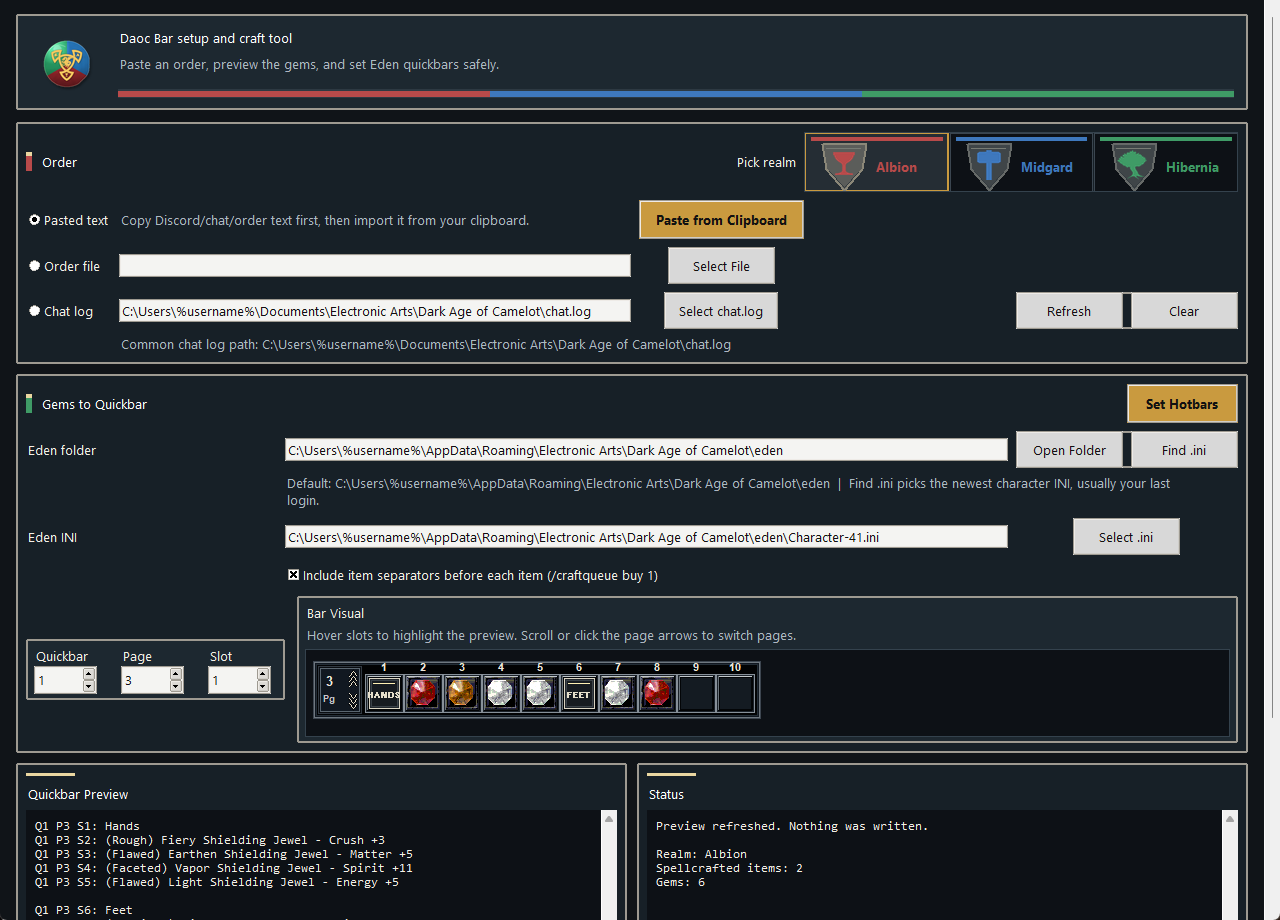
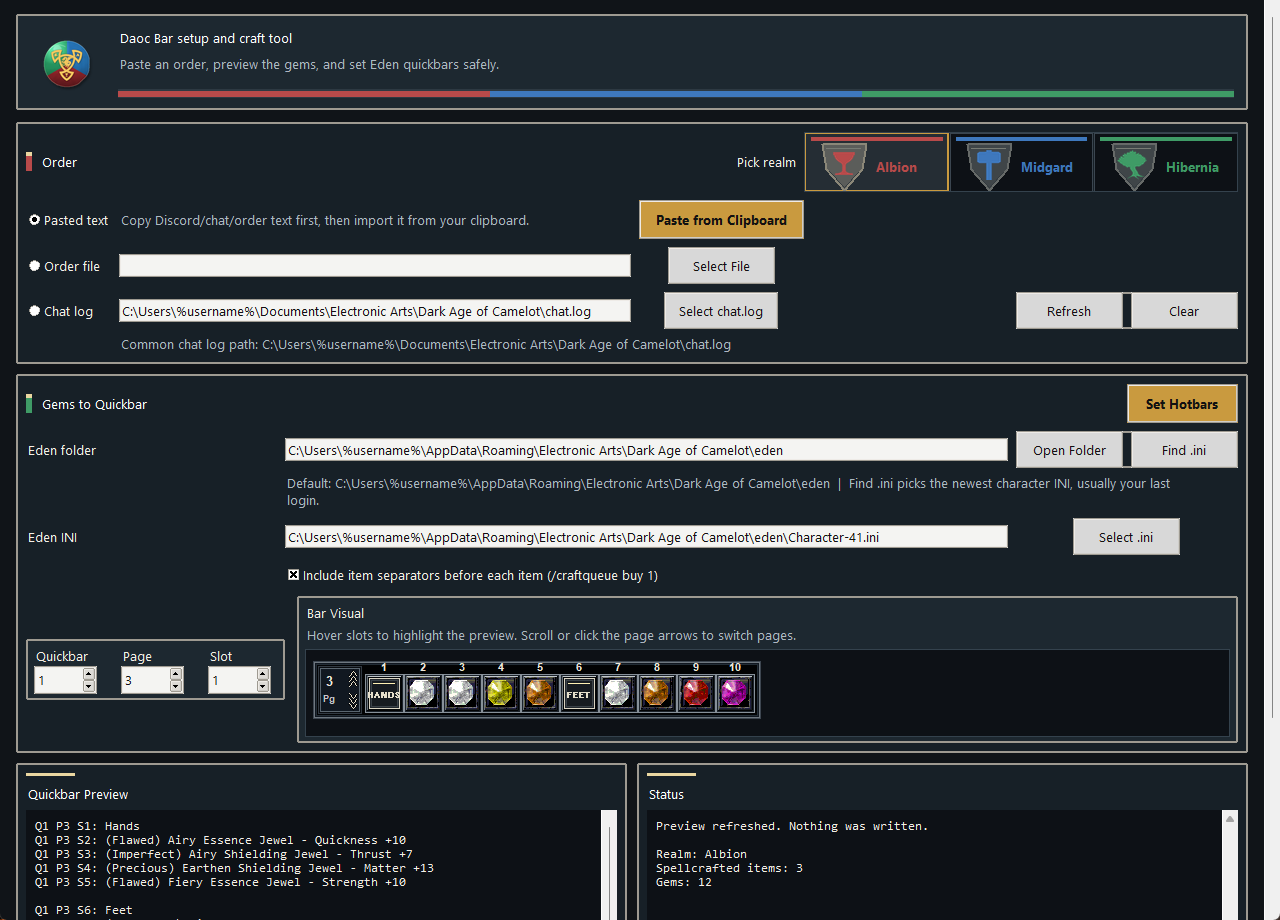
Match preview gem colors to DAoC bars
Remap the quickbar visual gem icons to match the in-game DAoC gem colors and refresh the README screenshots with a full Scout bar sample.

Changed region(s): [[0.0938, 0.913, 0.3438, 0.9739], [0.3125, 0.7304, 0.4375, 0.7913], [0.5, 0.7304, 0.5938, 0.7913]]

diff --git a/sc_craft_tool_gui.py b/sc_craft_tool_gui.py
@@ -1253,16 +1253,20 @@ class CraftToolApp(tk.Tk):
     def _gem_visual_icon_key(self, gem: object) -> str:
         name = getattr(gem, "zenk_gem_name", "").lower()
         type_name = getattr(gem, "type", "").lower()
-        if any(key in name or key in type_name for key in ("blood", "fiery", "heated", "cinder", "steaming")):
+        if any(key in name or key in type_name for key in ("blood", "heated", "cinder", "steaming")):
             return "red"
-        if any(key in name or key in type_name for key in ("earthen", "dusty", "radiant", "salt")):
+        if "fiery" in name or "fiery" in type_name:
             return "amber"
-        if any(key in name or key in type_name for key in ("watery", "icy", "glacier")):
+        if any(key in name or key in type_name for key in ("earthen", "radiant")):
+            return "green"
+        if any(key in name or key in type_name for key in ("watery", "glacier")):
             return "blue"
-        if any(key in name or key in type_name for key in ("airy", "vapor", "light", "finesse")):
-            return "white"
-        if any(key in name or key in type_name for key in ("mystic", "mystical", "magnetic", "ashen")):
+        if "dusty" in name or "dusty" in type_name:
             return "purple"
+        if any(key in name or key in type_name for key in ("airy", "light", "finesse", "salt")):
+            return "white"
+        if any(key in name or key in type_name for key in ("icy", "vapor", "mystic", "mystical", "magnetic", "ashen")):
+            return "yellow"
         return "amber"
 
     def _gem_visual_color(self, gem: object) -> str: